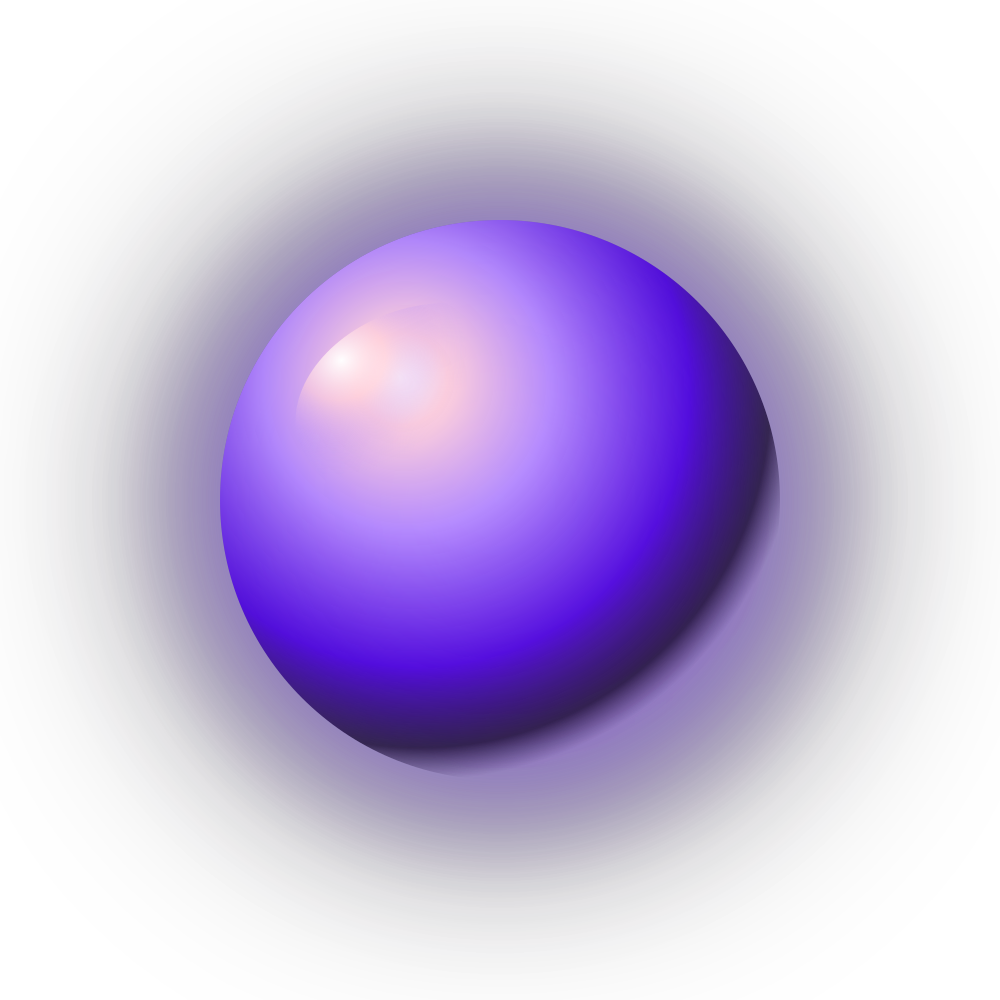
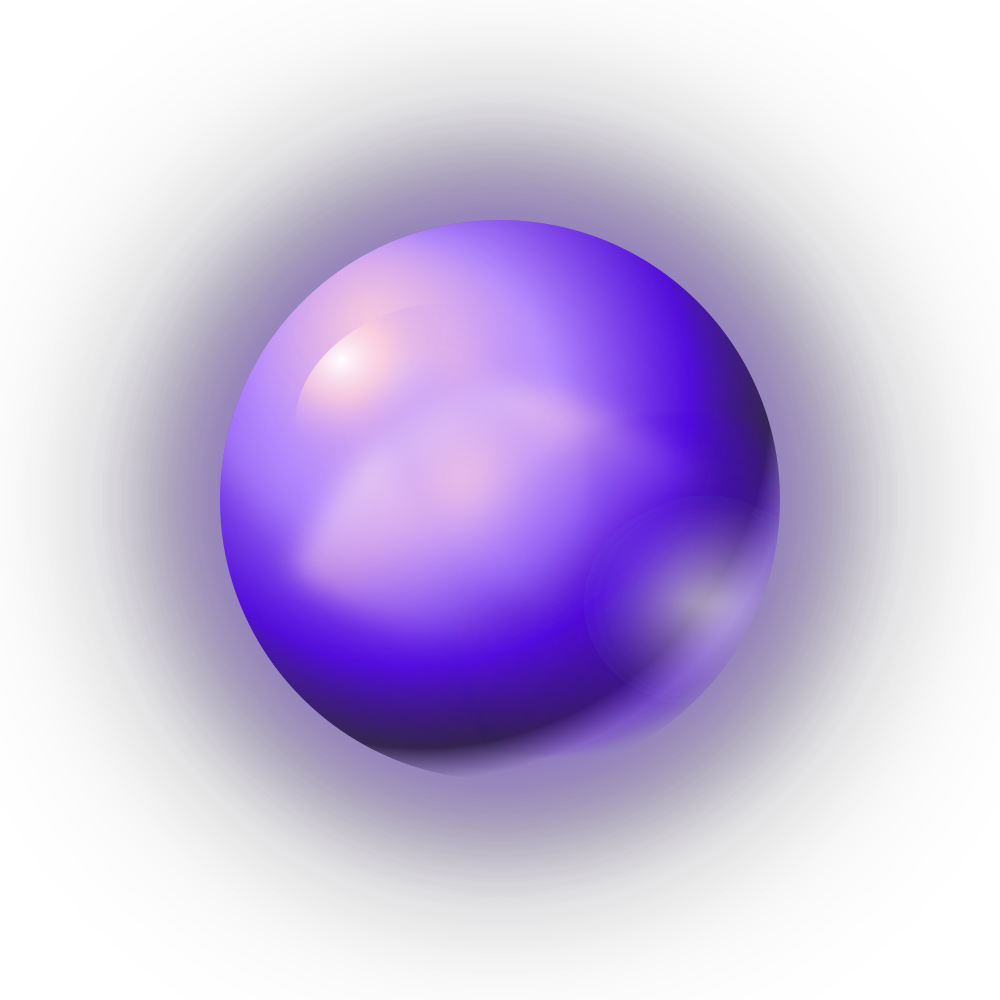
feat(assets): update orb visuals with plasma shaders
Refine visual fidelity of aurora, cosmic, and cyberpunk orbs by adding plasma diffusion filters, new vortex gradients, and updated clipping paths for enhanced rendering.

diff --git a/video/orb.py b/video/orb.py
@@ -193,10 +193,8 @@ def generate_gradient_orb_svg(
 ) -> Tuple[Path, str]:
     """
     Generate a high-definition SVG file containing an organic 3D gradient orb with
-    an intense, radiant multi-stage atmospheric glow and realistic volumetric lighting.
-    Features:
-      - Multi-layer luminous halo: Ultra-wide diffused ambient glow + atmospheric corona + 3D spherical core + specular flare.
-      - Ethereal light bleeding effect for seamless blending over cosmic background video.
+    an intense, radiant multi-stage atmospheric glow, realistic volumetric lighting,
+    and an internal fluid plasma core with vortex filaments.
     """
     palette = ORB_PALETTES.get(palette_key.lower().strip(), ORB_PALETTES["cosmic"])
 
@@ -205,6 +203,12 @@ def generate_gradient_orb_svg(
     r_corona = int(canvas_size * 0.38)
     r_aura = int(canvas_size * 0.48)
     r_specular = int(r_sphere * 0.46)
+
+    # Coords for internal plasma arcs & vortex centers
+    p_x1 = int(c - r_sphere * 0.45)
+    p_y1 = int(c - r_sphere * 0.35)
+    p_x2 = int(c + r_sphere * 0.40)
+    p_y2 = int(c + r_sphere * 0.30)
 
     svg_content = f"""<svg width="{canvas_size}" height="{canvas_size}" viewBox="0 0 {canvas_size} {canvas_size}" xmlns="http://www.w3.org/2000/svg">
   <defs>
@@ -220,6 +224,14 @@ def generate_gradient_orb_svg(
     <filter id="intenseGlow" x="-30%" y="-30%" width="160%" height="160%">
       <feGaussianBlur stdDeviation="22" result="blur3" />
     </filter>
+
+    <filter id="plasmaDiffusion" x="-20%" y="-20%" width="140%" height="140%">
+      <feGaussianBlur stdDeviation="14" result="blur4" />
+    </filter>
+
+    <clipPath id="coreClip">
+      <circle cx="{c}" cy="{c}" r="{r_sphere}" />
+    </clipPath>
 
     <!-- Layer 0: Ultra-wide diffused ambient radiance -->
     <radialGradient id="outerRadiance" cx="50%" cy="50%" r="50%">
@@ -248,6 +260,29 @@ def generate_gradient_orb_svg(
       <stop offset="100%" stop-color="{palette['deep_edge']}" stop-opacity="0.0" />
     </radialGradient>
 
+    <!-- Internal Fluid Plasma Vortex Gradients -->
+    <radialGradient id="plasmaVortex1" cx="40%" cy="38%" r="60%">
+      <stop offset="0%" stop-color="{palette['inner_glow']}" stop-opacity="0.90" />
+      <stop offset="45%" stop-color="{palette['ambient_aura']}" stop-opacity="0.65" />
+      <stop offset="85%" stop-color="{palette['mid_gradient']}" stop-opacity="0.20" />
+      <stop offset="100%" stop-color="{palette['deep_edge']}" stop-opacity="0.0" />
+    </radialGradient>
+
+    <radialGradient id="plasmaVortex2" cx="62%" cy="65%" r="55%">
+      <stop offset="0%" stop-color="{palette['core_highlight']}" stop-opacity="0.85" />
+      <stop offset="40%" stop-color="{palette['ambient_secondary']}" stop-opacity="0.55" />
+      <stop offset="80%" stop-color="{palette['outer_gradient']}" stop-opacity="0.15" />
+      <stop offset="100%" stop-color="{palette['deep_edge']}" stop-opacity="0.0" />
+    </radialGradient>
+
+    <!-- Linear Fluid Streamer Gradient -->
+    <linearGradient id="fluidStreamer" x1="15%" y1="20%" x2="85%" y2="80%">
+      <stop offset="0%" stop-color="{palette['core_highlight']}" stop-opacity="0.85" />
+      <stop offset="35%" stop-color="{palette['inner_glow']}" stop-opacity="0.70" />
+      <stop offset="70%" stop-color="{palette['ambient_aura']}" stop-opacity="0.40" />
+      <stop offset="100%" stop-color="{palette['deep_edge']}" stop-opacity="0.0" />
+    </linearGradient>
+
     <!-- Layer 3: Organic Specular Highlight Flare -->
     <radialGradient id="specularGleam" cx="30%" cy="26%" r="42%">
       <stop offset="0%" stop-color="#ffffff" stop-opacity="0.98" />
@@ -267,7 +302,22 @@ def generate_gradient_orb_svg(
   <!-- Stage 3: Main 3D Volumetric Living Core Body -->
   <circle cx="{c}" cy="{c}" r="{r_sphere}" fill="url(#orbVolumetric)" />
 
-  <!-- Stage 4: High-Luminance Specular Flare Accent (Glassy Light Crown) -->
+  <!-- Stage 4: Internal Fluid Plasma Vortex Streams & Filaments (Living Plasma Core) -->
+  <g clip-path="url(#coreClip)">
+    <!-- Swirling Plasma Cloud 1 -->
+    <ellipse cx="{p_x1}" cy="{p_y1}" rx="{int(r_sphere * 0.85)}" ry="{int(r_sphere * 0.55)}" fill="url(#plasmaVortex1)" filter="url(#plasmaDiffusion)" transform="rotate(35 {p_x1} {p_y1})" opacity="0.85" />
+    
+    <!-- Counter-Swirling Plasma Cloud 2 -->
+    <ellipse cx="{p_x2}" cy="{p_y2}" rx="{int(r_sphere * 0.75)}" ry="{int(r_sphere * 0.50)}" fill="url(#plasmaVortex2)" filter="url(#plasmaDiffusion)" transform="rotate(-40 {p_x2} {p_y2})" opacity="0.78" />
+
+    <!-- Organic Fluid Plasma Filament Ribbon -->
+    <path d="M {c - int(r_sphere*0.75)} {c + int(r_sphere*0.25)} C {c - int(r_sphere*0.3)} {c - int(r_sphere*0.65)}, {c + int(r_sphere*0.2)} {c - int(r_sphere*0.45)}, {c + int(r_sphere*0.75)} {c - int(r_sphere*0.1)} C {c + int(r_sphere*0.3)} {c + int(r_sphere*0.55)}, {c - int(r_sphere*0.2)} {c + int(r_sphere*0.65)}, {c - int(r_sphere*0.75)} {c + int(r_sphere*0.25)} Z" fill="url(#fluidStreamer)" filter="url(#plasmaDiffusion)" opacity="0.65" />
+
+    <!-- Secondary Harmonic Ribbon -->
+    <path d="M {c - int(r_sphere*0.5)} {c - int(r_sphere*0.4)} C {c} {c - int(r_sphere*0.7)}, {c + int(r_sphere*0.6)} {c + int(r_sphere*0.2)}, {c + int(r_sphere*0.4)} {c + int(r_sphere*0.6)} C {c - int(r_sphere*0.1)} {c + int(r_sphere*0.2)}, {c - int(r_sphere*0.4)} {c + int(r_sphere*0.1)}, {c - int(r_sphere*0.5)} {c - int(r_sphere*0.4)} Z" fill="url(#plasmaVortex1)" filter="url(#plasmaDiffusion)" opacity="0.55" />
+  </g>
+
+  <!-- Stage 5: High-Luminance Specular Flare Accent (Glassy Light Crown) -->
   <ellipse cx="{int(c * 0.84)}" cy="{int(c * 0.80)}" rx="{r_specular}" ry="{int(r_specular * 0.72)}" fill="url(#specularGleam)" transform="rotate(-20 {int(c * 0.84)} {int(c * 0.80)})" />
 </svg>"""
 
@@ -277,8 +327,6 @@ def generate_gradient_orb_svg(
     save_path = Path(save_path)
     save_path.parent.mkdir(parents=True, exist_ok=True)
     save_path.write_text(svg_content, encoding="utf-8")
-
-    return save_path, svg_content
 
     return save_path, svg_content
 
@@ -426,8 +474,12 @@ class GradientOrbManager:
                 f"s='1.0 + 0.45*({env_expr})'"
             )
 
+            # Fluid Plasma Motion: Continuous swirl with speech acceleration
+            rotate_expr = f"a='2*PI*t/8.0 + 0.8*({env_expr})':ow='rotw(iw)':oh='roth(ih)':c=none"
+
             filters.append(f"[{input_idx}:v]scale={scale_expr}")
             filters.append(f"hue={hue_expr}")
+            filters.append(f"rotate={rotate_expr}")
             filters.append("format=yuva420p")
             filters.append(f"colorchannelmixer=aa={effective_opacity:.2f}[{output_label}]")
         elif is_audio_reactive and not env_points:
@@ -440,8 +492,11 @@ class GradientOrbManager:
                 f"h='-2'"
             )
             hue_expr = f"h='110*{simulated_speech} + 25*sin(2*PI*t/1.8)':s='1.0 + 0.35*{simulated_speech}'"
+            rotate_expr = f"a='2*PI*t/7.5 + 0.6*{simulated_speech}':ow='rotw(iw)':oh='roth(ih)':c=none"
+
             filters.append(f"[{input_idx}:v]scale={scale_expr}")
             filters.append(f"hue={hue_expr}")
+            filters.append(f"rotate={rotate_expr}")
             filters.append("format=yuva420p")
             filters.append(f"colorchannelmixer=aa={effective_opacity:.2f}[{output_label}]")
         elif self.animation in ("pulse", "breathing", "all"):
@@ -453,20 +508,28 @@ class GradientOrbManager:
             )
             # Subtle breathing color temperature shift
             hue_expr = "h='28*sin(2*PI*t/2.0)':s='1.0 + 0.15*sin(2*PI*t/2.0)'"
+            rotate_expr = "a='2*PI*t/9.0':ow='rotw(iw)':oh='roth(ih)':c=none"
+
             filters.append(f"[{input_idx}:v]scale={scale_expr}")
             filters.append(f"hue={hue_expr}")
+            filters.append(f"rotate={rotate_expr}")
             filters.append("format=yuva420p")
             filters.append(f"colorchannelmixer=aa={effective_opacity:.2f}[{output_label}]")
         elif self.animation in ("float", "hover"):
-            # Floating hover with subtle chromatic luminescence
+            # Floating hover with subtle chromatic luminescence & continuous fluid vortex
             hue_expr = "h='35*sin(2*PI*t/3.0)':s='1.0 + 0.12*sin(2*PI*t/2.5)'"
+            rotate_expr = "a='2*PI*t/8.5':ow='rotw(iw)':oh='roth(ih)':c=none"
+
             filters.append(f"[{input_idx}:v]scale={target_size}:-2")
             filters.append(f"hue={hue_expr}")
+            filters.append(f"rotate={rotate_expr}")
             filters.append("format=yuva420p")
             filters.append(f"colorchannelmixer=aa={effective_opacity:.2f}[{output_label}]")
         else:
             scale_expr = f"{target_size}:-2"
+            rotate_expr = "a='2*PI*t/10.0':ow='rotw(iw)':oh='roth(ih)':c=none"
             filters.append(f"[{input_idx}:v]scale={scale_expr}")
+            filters.append(f"rotate={rotate_expr}")
             filters.append("format=yuva420p")
             filters.append(f"colorchannelmixer=aa={effective_opacity:.2f}[{output_label}]")
 
